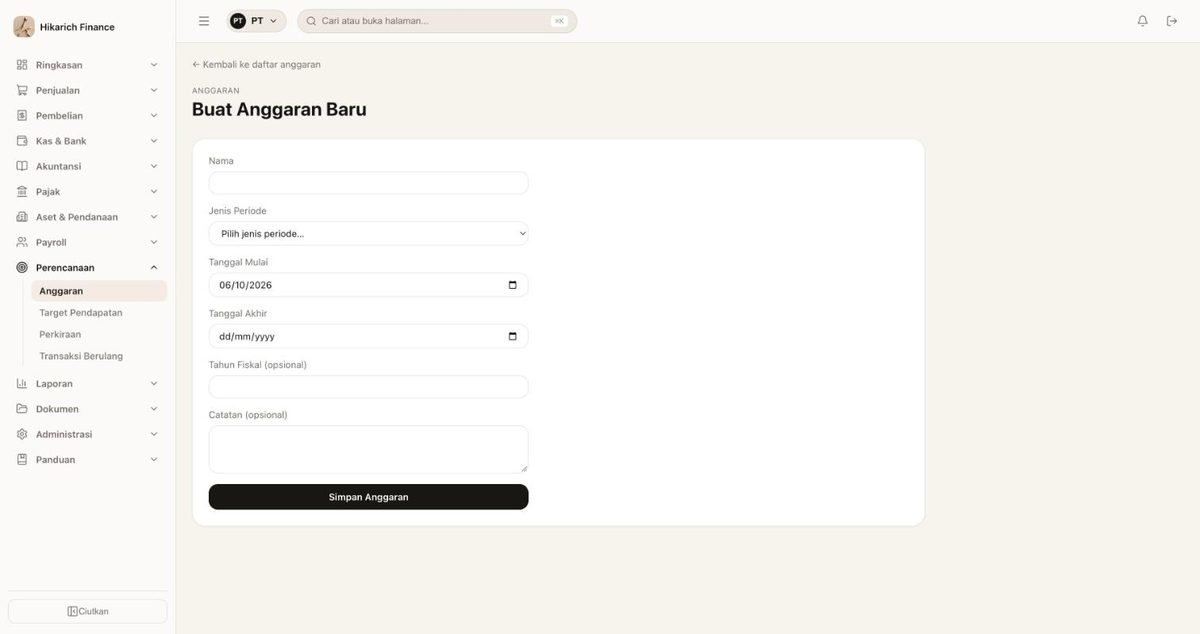
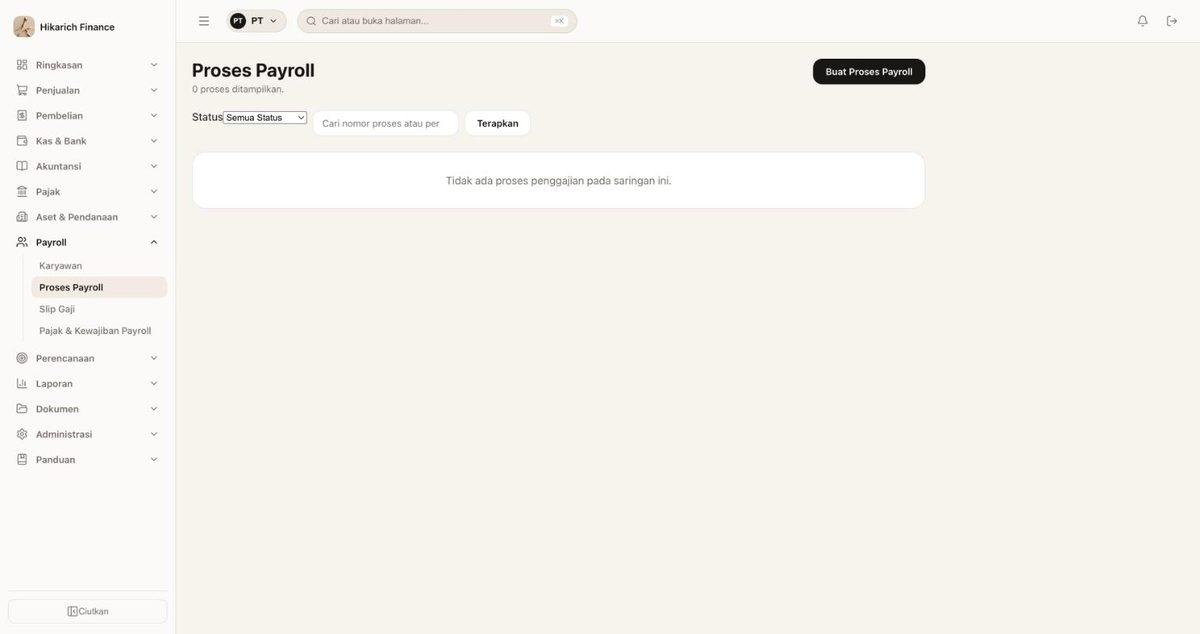
Gambar panduan dibetulkan (30 tertukar), label Kategori/Marketplace, tes batas modul klien (keputusan 304) (#144)
Claude-Session: https://claude.ai/code/session_01PKw5oGBN6qhUiYVcbqNS8P

diff --git a/src/lib/clientBoundary.test.ts b/src/lib/clientBoundary.test.ts
@@ -1,0 +1,53 @@
+import { readFileSync, readdirSync, statSync } from "node:fs";
+import { join } from "node:path";
+import { describe, expect, it } from "vitest";
+
+/**
+ * A module marked "use client" turns every export into a client reference when a SERVER file imports it.
+ * A component is fine (it renders on the client), but a plain constant such as a label map becomes unusable
+ * there: `LABELS[key]` is undefined, so the screen falls back to the raw stored word (finding #104:
+ * "expense" in the Kategori table). This guard fails when a server file imports an ALL_CAPS constant from a
+ * "use client" module; such constants belong in a plain module.
+ */
+function walk(dir: string, out: string[] = []): string[] {
+  for (const name of readdirSync(dir)) {
+    const full = join(dir, name);
+    if (statSync(full).isDirectory()) walk(full, out);
+    else if (/\.(ts|tsx)$/.test(name) && !/\.test\./.test(name)) out.push(full);
+  }
+  return out;
+}
+
+const isClient = (text: string) => /^\s*(["'])use client\1/.test(text);
+
+describe("client module boundary", () => {
+  it("no server file imports a constant from a 'use client' module", () => {
+    const files = walk("src");
+    const texts = new Map(files.map((f) => [f, readFileSync(f, "utf8")]));
+    const clientConstants = new Map<string, string[]>();
+    for (const [file, text] of texts) {
+      if (!isClient(text)) continue;
+      const names = [...text.matchAll(/^export const ([A-Z][A-Z0-9_]+)\b/gm)].map((m) => m[1]!);
+      if (names.length) clientConstants.set(file.replace(/\.tsx?$/, ""), names);
+    }
+    const offenders: string[] = [];
+    for (const [file, text] of texts) {
+      if (isClient(text)) continue;
+      for (const m of text.matchAll(/import\s*\{([^}]*)\}\s*from\s*["']([^"']+)["']/g)) {
+        const spec = m[2]!;
+        const target = spec.startsWith("@/")
+          ? join("src", spec.slice(2))
+          : spec.startsWith(".")
+            ? join(file, "..", spec)
+            : null;
+        const names = target ? clientConstants.get(target) : undefined;
+        if (!names) continue;
+        for (const n of names) {
+          if (new RegExp(`\\b${n}\\b`).test(m[1]!))
+            offenders.push(`${file} imports ${n} from ${spec}`);
+        }
+      }
+    }
+    expect(offenders).toEqual([]);
+  });
+});

diff --git a/src/features/sales/MarketplaceForms.tsx b/src/features/sales/MarketplaceForms.tsx
@@ -1,5 +1,6 @@
 "use client";
 
+import { MARKETPLACE_PLATFORM_LABELS } from "./marketplaceLabels";
 import { usePreservingForm } from "@/features/shared/usePreservingForm";
 import { useActionState, useState } from "react";
 import type { SettlementAccountOption } from "@/features/shared/SettlementForm";
@@ -12,16 +13,6 @@ import {
 import { MoneyInput } from "@/features/shared/MoneyInput";
 
 const IDLE: MarketplaceActionState = { status: "idle" };
-
-export const MARKETPLACE_PLATFORM_LABELS: Readonly<Record<string, string>> = {
-  shopee: "Shopee",
-  tokopedia: "Tokopedia",
-  lazada: "Lazada",
-  blibli: "Blibli",
-  tiktok_shop: "TikTok Shop",
-  bukalapak: "Bukalapak",
-  other: "Lainnya",
-};
 
 function Feedback({ state }: { state: MarketplaceActionState }) {
   if (state.status === "ok") return <p className="hint">{state.message}</p>;

diff --git a/src/features/categories/CategoryForms.tsx b/src/features/categories/CategoryForms.tsx
@@ -1,5 +1,6 @@
 "use client";
 
+import { CATEGORY_KIND_LABELS } from "./kindLabels";
 import { usePreservingForm } from "@/features/shared/usePreservingForm";
 import { useActionState } from "react";
 import { VAT_TREATMENT_LABELS, WHT_OBJECT_LABELS } from "@/domain/tax/tax";
@@ -11,15 +12,6 @@ import {
 } from "./categoryActions";
 
 const IDLE: CategoryActionState = { status: "idle" };
-
-export const CATEGORY_KIND_LABELS: Readonly<Record<string, string>> = {
-  revenue: "Pendapatan",
-  expense: "Beban",
-  asset: "Aset",
-  liability: "Kewajiban",
-  equity: "Modal",
-  other: "Lainnya",
-};
 
 function TaxKeyOptions() {
   return (

diff --git a/src/app/(app)/sales/marketplace/page.tsx b/src/app/(app)/sales/marketplace/page.tsx
@@ -5,11 +5,11 @@ import { getMoneyControl } from "@/services/money/money";
 import { listMarketplaceSettlements, listMarketplaceStores } from "@/services/sales/sales";
 import { formatShortDate } from "@/features/sales/format";
 import {
-  MARKETPLACE_PLATFORM_LABELS,
   MarketplaceSettlementForm,
   MarketplaceStoreForm,
   ReverseSettlementForm,
 } from "@/features/sales/MarketplaceForms";
+import { MARKETPLACE_PLATFORM_LABELS } from "@/features/sales/marketplaceLabels";
 import { todayInBusinessZone } from "@/lib/time";
 
 /** Marketplace (decision 260): the Entity's stores and their settlements (payouts). Viewing needs

diff --git a/src/app/(app)/accounting/categories/page.tsx b/src/app/(app)/accounting/categories/page.tsx
@@ -6,11 +6,11 @@ import {
 } from "@/services/accounting/categories";
 import { listLedgerAccounts } from "@/services/accounting/ledger";
 import {
-  CATEGORY_KIND_LABELS,
   CategoryAccountForm,
   CategoryCreateForm,
   CategoryRowForm,
 } from "@/features/categories/CategoryForms";
+import { CATEGORY_KIND_LABELS } from "@/features/categories/kindLabels";
 import { todayInBusinessZone } from "@/lib/time";
 
 /** Categories (Step 03 §6, decision 262): every member may read them; adding one or changing its tax

diff --git a/src/features/categories/kindLabels.ts b/src/features/categories/kindLabels.ts
@@ -1,0 +1,10 @@
+/** Plain module (no "use client"): a server page importing this constant from a client component module
+ * would get an unusable client reference, so the Kategori table showed the raw stored word (finding #104). */
+export const CATEGORY_KIND_LABELS: Readonly<Record<string, string>> = {
+  revenue: "Pendapatan",
+  expense: "Beban",
+  asset: "Aset",
+  liability: "Kewajiban",
+  equity: "Modal",
+  other: "Lainnya",
+};

diff --git a/src/features/sales/marketplaceLabels.ts b/src/features/sales/marketplaceLabels.ts
@@ -1,0 +1,10 @@
+/** Plain module (no "use client") so server pages can read the labels; see categories/kindLabels.ts. */
+export const MARKETPLACE_PLATFORM_LABELS: Readonly<Record<string, string>> = {
+  shopee: "Shopee",
+  tokopedia: "Tokopedia",
+  lazada: "Lazada",
+  blibli: "Blibli",
+  tiktok_shop: "TikTok Shop",
+  bukalapak: "Bukalapak",
+  other: "Lainnya",
+};

diff --git a/docs/DECISIONS.md b/docs/DECISIONS.md
@@ -2302,3 +2302,14 @@ e.timezone)::date` (`20260923100100_p5_sales_invoices.sql`) -- the **Entity's ow
   timezone migration `20261006150000`, which selected `entity_type = 'personal'`, changed nothing in production
   (checked after the merge). Migration `20261006160000` selects the Entity by its code `hikarich` and makes the
   WITA change that was agreed. PT stays on WIB.
+
+- Decision 304 (6 October 2026): guide screenshots and two label bugs found by looking at the production site.
+  (1) About 30 of the 74 guide screenshots showed a different page than their caption (the batch that saved them
+  matched files by time order). Each caption now points to a `-v2` file whose content was checked page by page
+  against the caption; the old files are left in place (unused). Pages that changed since (Jejak Audit in WITA,
+  Kalender Pajak, Laporan Kustom, Bagan Akun) and the missing ones (Ubah Produk, Laporan Penjualan & Pembelian,
+  Anggaran) were retaken. (2) Finding #104 had not really been fixed: the Kategori table still printed the stored
+  word (`expense`) because `CATEGORY_KIND_LABELS` was exported from a `"use client"` module, which a server page
+  receives as an unusable client reference. The same happened with the Marketplace platform names. Both label
+  maps now live in plain modules, and `src/lib/clientBoundary.test.ts` fails when a server file imports an
+  upper-case constant from a `"use client"` module. No database change.
